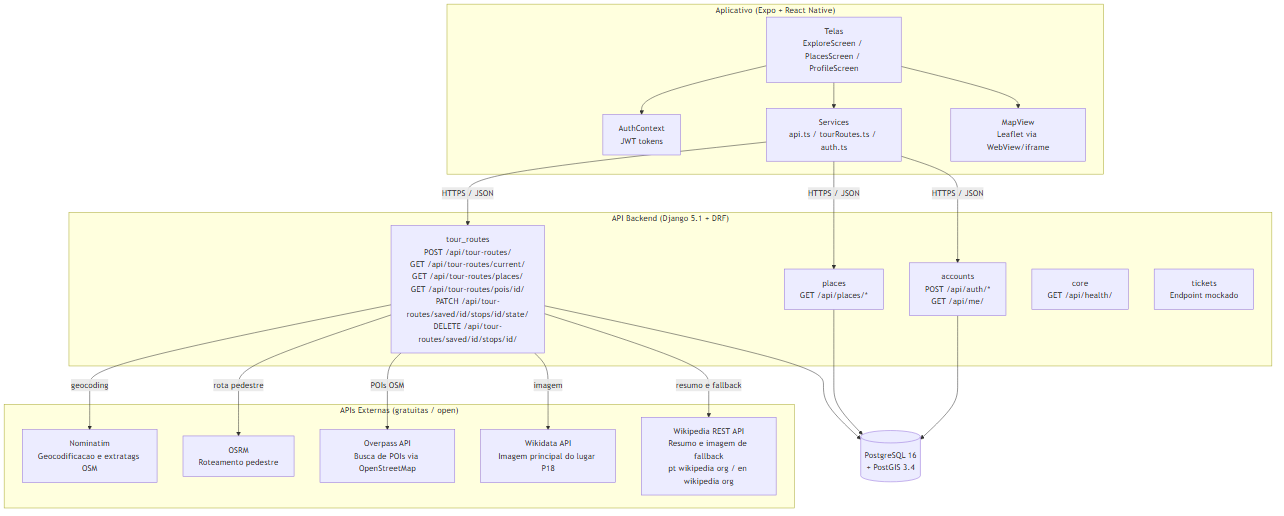
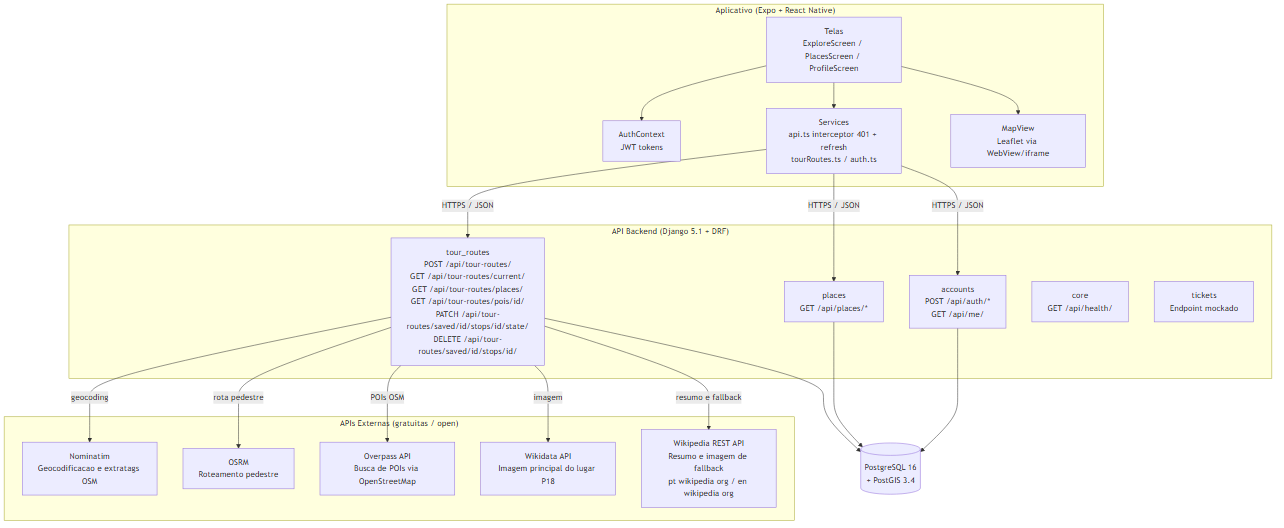
docs: atualiza modelagem e diagramas com interceptor de auth e pre-busca
MODELAGEM.md:
- Diagrama de atividade: adiciona no de pre-busca de detalhes dos POIs
  em background apos rota renderizar
- Diagrama de componentes: menciona interceptor 401 + refresh no api.ts

Diagramas Mermaid (.mmd):
- atividade-explorar.mmd: no Prefetch adicionado
- componentes.mmd: descricao do Services atualizada

PNGs e PDF regenerados com as mudancas

diff --git a/MODELAGEM.md b/MODELAGEM.md
@@ -502,12 +502,13 @@ flowchart TD
     GenDefault --> RenderMap
     GenAnon --> RenderMap[Renderiza mapa Leaflet\npolyline + marcadores]
 
-    RenderMap --> Idle{Aguarda\ninteracao}
+    RenderMap --> Prefetch[Pre-busca detalhes de todos os POIs\nem background com 400ms de intervalo]
+    Prefetch --> Idle{Aguarda\ninteracao}
 
     Idle -->|Filtro categoria| Filter[Atualiza visibilidade\ndos marcadores]
     Filter --> Idle
 
-    Idle -->|Toca marcador ou item| OpenDetail[GET /api/tour-routes/pois/stop_id/]
+    Idle -->|Toca marcador ou item| OpenDetail[GET pois/stop_id\ninstantaneo se pre-buscado]
     OpenDetail --> Modal[Exibe TourPoiDetailModal]
 
     Modal -->|Marcar visitado| PatchVisited[PATCH .../state/ visited]